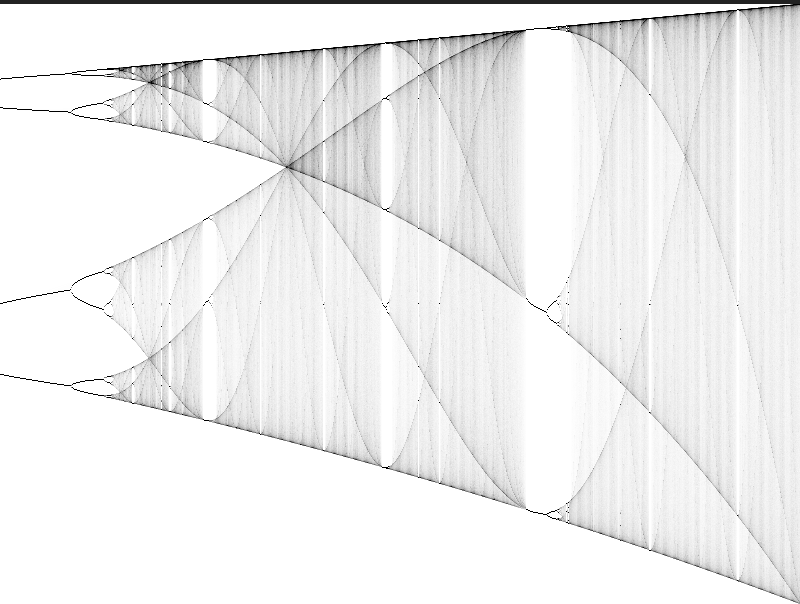
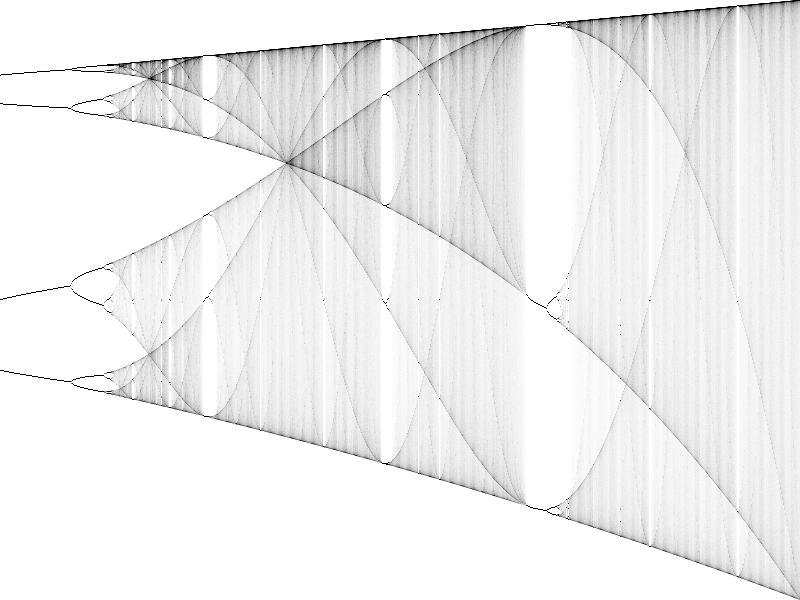
Logistic map: Interpolate between pixels in column
Also: Fix screenshot logisticmap.png

diff --git a/logistic_map.py b/logistic_map.py
@@ -86,10 +86,13 @@ class LogisticMap(fractal.Fractal):
                     # for r > 4, x escapes to -inf
                     if abs(x) > 100:
                         break
-                    row = math.floor((max(self.view.y) - x) /
-                                     self.view.size_y() * self.view.canvas.height)
+                    row = (max(self.view.y) - x) / self.view.size_y() * self.view.canvas.height
                     if row >= 0 and row < len(col):
-                        col[row] += 1
+                        distance_to_floor = row - math.floor(row)
+                        col[math.floor(row)] += 1 - distance_to_floor
+                        if distance_to_floor != 0 and row <= len(col) - 1:
+                            distance_to_ceil = math.ceil(row) - row
+                            col[math.ceil(row)] += 1 - distance_to_ceil
 
                 # draw column
                 max_value = max(1, max(col))
